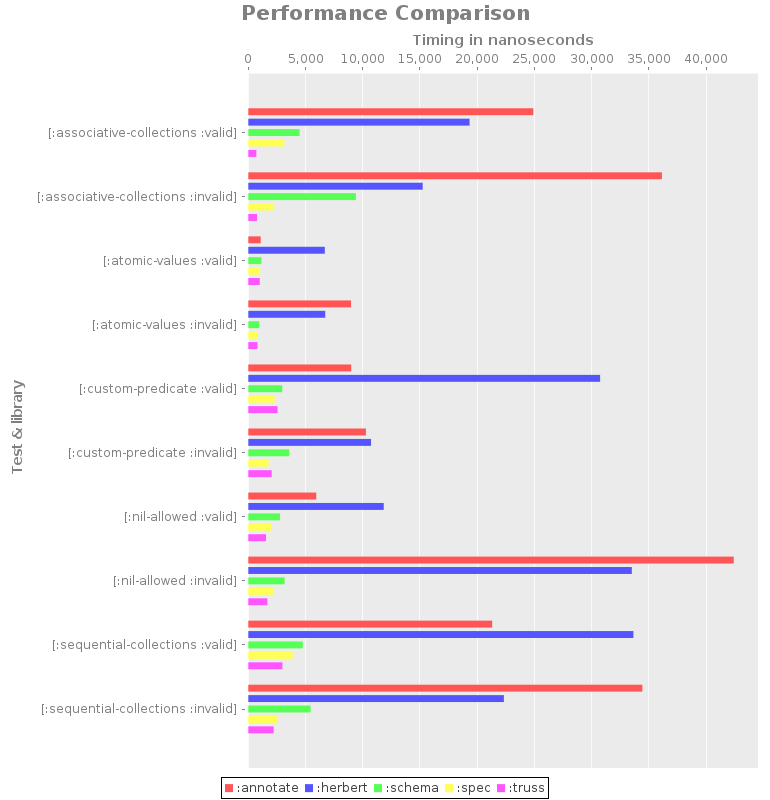
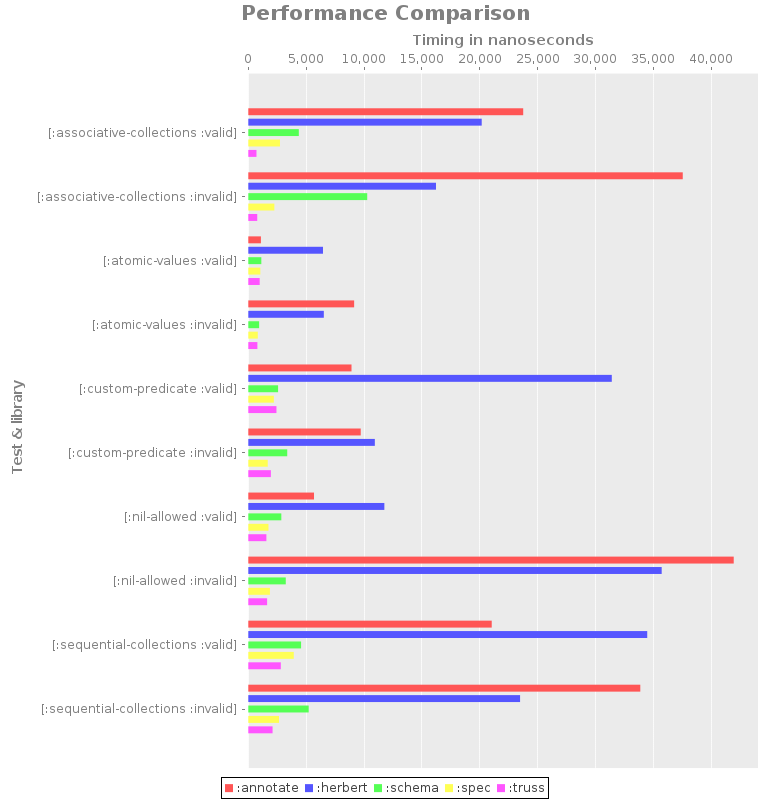
Deploy to GitHub Pages

diff --git a/index.html b/index.html
@@ -1,5 +1,5 @@
 <!DOCTYPE html>
-<html><head><link crossorigin="anonymous" href="https://maxcdn.bootstrapcdn.com/bootstrap/3.3.6/css/bootstrap.min.css" integrity="sha384-1q8mTJOASx8j1Au+a5WDVnPi2lkFfwwEAa8hDDdjZlpLegxhjVME1fgjWPGmkzs7" rel="stylesheet"><link crossorigin="anonymous" href="https://maxcdn.bootstrapcdn.com/bootstrap/3.3.6/css/bootstrap-theme.min.css" integrity="sha384-fLW2N01lMqjakBkx3l/M9EahuwpSfeNvV63J5ezn3uZzapT0u7EYsXMjQV+0En5r" rel="stylesheet"><script src="https://code.jquery.com/jquery-2.2.3.min.js"></script><script crossorigin="anonymous" integrity="sha384-0mSbJDEHialfmuBBQP6A4Qrprq5OVfW37PRR3j5ELqxss1yVqOtnepnHVP9aJ7xS" src="https://maxcdn.bootstrapcdn.com/bootstrap/3.3.6/js/bootstrap.min.js"></script></head><body data-spy="scroll" data-target="#navbar"><a href="https://github.com/muhuk/validation-benchmark"><img alt="Fork me on GitHub" data-canonical-src="https://s3.amazonaws.com/github/ribbons/forkme_right_gray_6d6d6d.png" src="https://camo.githubusercontent.com/a6677b08c955af8400f44c6298f40e7d19cc5b2d/68747470733a2f2f73332e616d617a6f6e6177732e636f6d2f6769746875622f726962626f6e732f666f726b6d655f72696768745f677261795f3664366436642e706e67" style="position: absolute; top: 0; right: 0; border: 0;"></a><div class="container"><div class="row" id="top"><div class="col-md-12"><div class="page-header"><h1>validation-benchmark <small>Updated at 2016-09-08</small></h1></div></div></div><div class="row"><div class="col-md-10"><div><h2 id="about">About</h2><p>Benchmark for Clojure validation libraries.</p><p><a href="https://github.com/muhuk/validation-benchmark">Source code</a></p><p>Following libraries are benchmarked:</p><ul><li><strong>annotate</strong> (<code>[com.roomkey/annotate "1.0.1"]</code>)</li><li><strong>herbert</strong> (<code>[com.velisco/herbert "0.7.0"]</code>)</li><li><strong>schema</strong> (<code>[prismatic/schema "1.1.3"]</code>)</li><li><strong>spec</strong> (<code>[org.clojure/clojure "1.9.0-alpha12"]</code>)</li><li><strong>truss</strong> (<code>[com.taoensso/truss "1.3.5"]</code>)</li></ul></div><div><h2 id="relative-performance-table">Relative performance table</h2><table class="table table-bordered table-hover"><tr><th>Test</th><th>annotate</th><th>herbert</th><th>schema</th><th>spec</th><th>truss</th></tr><tr><td><samp>[:associative-collections :invalid]</samp></td><td class="danger" title="Absolute timing is 36141 ns.">47.263</td><td class="danger" title="Absolute timing is 15240 ns.">19.930</td><td class="danger" title="Absolute timing is 9403 ns.">12.297</td><td class="warning" title="Absolute timing is 2260 ns.">2.955</td><td class="success" title="Absolute timing is 765 ns.">1.000</td></tr><tr><td><samp>[:associative-collections :valid]</samp></td><td class="danger" title="Absolute timing is 24901 ns.">35.339</td><td class="danger" title="Absolute timing is 19335 ns.">27.440</td><td class="danger" title="Absolute timing is 4482 ns.">6.361</td><td class="danger" title="Absolute timing is 3163 ns.">4.489</td><td class="success" title="Absolute timing is 705 ns.">1.000</td></tr><tr><td><samp>[:atomic-values :invalid]</samp></td><td class="danger" title="Absolute timing is 8978 ns.">11.196</td><td class="danger" title="Absolute timing is 6726 ns.">8.387</td><td class="warning" title="Absolute timing is 969 ns.">1.208</td><td class="success" title="Absolute timing is 815 ns.">1.017</td><td class="success" title="Absolute timing is 802 ns.">1.000</td></tr><tr><td><samp>[:atomic-values :valid]</samp></td><td class="warning" title="Absolute timing is 1085 ns.">1.081</td><td class="danger" title="Absolute timing is 6687 ns.">6.666</td><td class="warning" title="Absolute timing is 1151 ns.">1.147</td><td class="success" title="Absolute timing is 1038 ns.">1.035</td><td class="success" title="Absolute timing is 1003 ns.">1.000</td></tr><tr><td><samp>[:custom-predicate :invalid]</samp></td><td class="danger" title="Absolute timing is 10279 ns.">5.782</td><td class="danger" title="Absolute timing is 10727 ns.">6.034</td><td class="warning" title="Absolute timing is 3571 ns.">2.009</td><td class="success" title="Absolute timing is 1778 ns.">1.000</td><td class="warning" title="Absolute timing is 2044 ns.">1.150</td></tr><tr><td><samp>[:custom-predicate :valid]</samp></td><td class="danger" title="Absolute timing is 8995 ns.">3.897</td><td class="danger" title="Absolute timing is 30743 ns.">13.319</td><td class="warning" title="Absolute timing is 2967 ns.">1.285</td><td class="success" title="Absolute timing is 2308 ns.">1.000</td><td class="warning" title="Absolute timing is 2557 ns.">1.108</td></tr><tr><td><samp>[:nil-allowed :invalid]</samp></td><td class="danger" title="Absolute timing is 42417 ns.">25.418</td><td class="danger" title="Absolute timing is 33512 ns.">20.082</td><td class="warning" title="Absolute timing is 3175 ns.">1.902</td><td class="warning" title="Absolute timing is 2186 ns.">1.310</td><td class="success" title="Absolute timing is 1669 ns.">1.000</td></tr><tr><td><samp>[:nil-allowed :valid]</samp></td><td class="danger" title="Absolute timing is 5939 ns.">3.833</td><td class="danger" title="Absolute timing is 11834 ns.">7.638</td><td class="warning" title="Absolute timing is 2775 ns.">1.791</td><td class="warning" title="Absolute timing is 2060 ns.">1.329</td><td class="success" title="Absolute timing is 1549 ns.">1.000</td></tr><tr><td><samp>[:sequential-collections :invalid]</samp></td><td class="danger" title="Absolute timing is 34433 ns.">15.546</td><td class="danger" title="Absolute timing is 22332 ns.">10.083</td><td class="warning" title="Absolute timing is 5443 ns.">2.457</td><td class="warning" title="Absolute timing is 2513 ns.">1.134</td><td class="success" title="Absolute timing is 2215 ns.">1.000</td></tr><tr><td><samp>[:sequential-collections :valid]</samp></td><td class="danger" title="Absolute timing is 21308 ns.">7.147</td><td class="danger" title="Absolute timing is 33652 ns.">11.287</td><td class="warning" title="Absolute timing is 4758 ns.">1.596</td><td class="warning" title="Absolute timing is 3886 ns.">1.304</td><td class="success" title="Absolute timing is 2981 ns.">1.000</td></tr></table></div><div><h2 id="performance-graph">Performance Graph</h2><img src="chart.png"></div></div><div class="col-md-2" id="navbar"><ul class="nav nav-pills nav-stacked" data-spy="affix"><li><a href="#top"><span class="glyphicon glyphicon-triangle-top"></span> Top</a></li><li><a href="#about"><span class="glyphicon glyphicon-triangle-right"></span> About</a></li><li><a href="#relative-performance-table"><span class="glyphicon glyphicon-triangle-right"></span> Relative performance table</a></li><li><a href="#performance-graph"><span class="glyphicon glyphicon-triangle-right"></span> Performance Graph</a></li></ul></div></div><div class="row"><div class="col-md-10" style="margin-bottom: 6em;">&nbsp;</div></div><script>
+<html><head><link crossorigin="anonymous" href="https://maxcdn.bootstrapcdn.com/bootstrap/3.3.6/css/bootstrap.min.css" integrity="sha384-1q8mTJOASx8j1Au+a5WDVnPi2lkFfwwEAa8hDDdjZlpLegxhjVME1fgjWPGmkzs7" rel="stylesheet"><link crossorigin="anonymous" href="https://maxcdn.bootstrapcdn.com/bootstrap/3.3.6/css/bootstrap-theme.min.css" integrity="sha384-fLW2N01lMqjakBkx3l/M9EahuwpSfeNvV63J5ezn3uZzapT0u7EYsXMjQV+0En5r" rel="stylesheet"><script src="https://code.jquery.com/jquery-2.2.3.min.js"></script><script crossorigin="anonymous" integrity="sha384-0mSbJDEHialfmuBBQP6A4Qrprq5OVfW37PRR3j5ELqxss1yVqOtnepnHVP9aJ7xS" src="https://maxcdn.bootstrapcdn.com/bootstrap/3.3.6/js/bootstrap.min.js"></script></head><body data-spy="scroll" data-target="#navbar"><a href="https://github.com/muhuk/validation-benchmark"><img alt="Fork me on GitHub" data-canonical-src="https://s3.amazonaws.com/github/ribbons/forkme_right_gray_6d6d6d.png" src="https://camo.githubusercontent.com/a6677b08c955af8400f44c6298f40e7d19cc5b2d/68747470733a2f2f73332e616d617a6f6e6177732e636f6d2f6769746875622f726962626f6e732f666f726b6d655f72696768745f677261795f3664366436642e706e67" style="position: absolute; top: 0; right: 0; border: 0;"></a><div class="container"><div class="row" id="top"><div class="col-md-12"><div class="page-header"><h1>validation-benchmark <small>Updated at 2016-10-04</small></h1></div></div></div><div class="row"><div class="col-md-10"><div><h2 id="about">About</h2><p>Benchmark for Clojure validation libraries.</p><p><a href="https://github.com/muhuk/validation-benchmark">Source code</a></p><p>Following libraries are benchmarked:</p><ul><li><strong>annotate</strong> (<code>[com.roomkey/annotate "1.0.1"]</code>)</li><li><strong>herbert</strong> (<code>[com.velisco/herbert "0.7.0"]</code>)</li><li><strong>schema</strong> (<code>[prismatic/schema "1.1.3"]</code>)</li><li><strong>spec</strong> (<code>[org.clojure/clojure "1.9.0-alpha13"]</code>)</li><li><strong>truss</strong> (<code>[com.taoensso/truss "1.3.5"]</code>)</li></ul></div><div><h2 id="relative-performance-table">Relative performance table</h2><table class="table table-bordered table-hover"><tr><th>Test</th><th>annotate</th><th>herbert</th><th>schema</th><th>spec</th><th>truss</th></tr><tr><td><samp>[:associative-collections :invalid]</samp></td><td class="danger" title="Absolute timing is 37546 ns.">48.546</td><td class="danger" title="Absolute timing is 16221 ns.">20.973</td><td class="danger" title="Absolute timing is 10277 ns.">13.288</td><td class="warning" title="Absolute timing is 2254 ns.">2.914</td><td class="success" title="Absolute timing is 773 ns.">1.000</td></tr><tr><td><samp>[:associative-collections :valid]</samp></td><td class="danger" title="Absolute timing is 23758 ns.">33.651</td><td class="danger" title="Absolute timing is 20171 ns.">28.570</td><td class="danger" title="Absolute timing is 4365 ns.">6.183</td><td class="danger" title="Absolute timing is 2739 ns.">3.879</td><td class="success" title="Absolute timing is 706 ns.">1.000</td></tr><tr><td><samp>[:atomic-values :invalid]</samp></td><td class="danger" title="Absolute timing is 9148 ns.">11.635</td><td class="danger" title="Absolute timing is 6526 ns.">8.300</td><td class="warning" title="Absolute timing is 935 ns.">1.190</td><td class="success" title="Absolute timing is 821 ns.">1.044</td><td class="success" title="Absolute timing is 786 ns.">1.000</td></tr><tr><td><samp>[:atomic-values :valid]</samp></td><td class="warning" title="Absolute timing is 1091 ns.">1.108</td><td class="danger" title="Absolute timing is 6454 ns.">6.555</td><td class="warning" title="Absolute timing is 1127 ns.">1.144</td><td class="warning" title="Absolute timing is 1039 ns.">1.055</td><td class="success" title="Absolute timing is 985 ns.">1.000</td></tr><tr><td><samp>[:custom-predicate :invalid]</samp></td><td class="danger" title="Absolute timing is 9717 ns.">5.783</td><td class="danger" title="Absolute timing is 10936 ns.">6.508</td><td class="warning" title="Absolute timing is 3365 ns.">2.003</td><td class="success" title="Absolute timing is 1680 ns.">1.000</td><td class="warning" title="Absolute timing is 1952 ns.">1.162</td></tr><tr><td><samp>[:custom-predicate :valid]</samp></td><td class="danger" title="Absolute timing is 8919 ns.">4.042</td><td class="danger" title="Absolute timing is 31413 ns.">14.235</td><td class="warning" title="Absolute timing is 2573 ns.">1.166</td><td class="success" title="Absolute timing is 2207 ns.">1.000</td><td class="warning" title="Absolute timing is 2433 ns.">1.103</td></tr><tr><td><samp>[:nil-allowed :invalid]</samp></td><td class="danger" title="Absolute timing is 41951 ns.">25.793</td><td class="danger" title="Absolute timing is 35725 ns.">21.965</td><td class="warning" title="Absolute timing is 3238 ns.">1.991</td><td class="warning" title="Absolute timing is 1870 ns.">1.150</td><td class="success" title="Absolute timing is 1626 ns.">1.000</td></tr><tr><td><samp>[:nil-allowed :valid]</samp></td><td class="danger" title="Absolute timing is 5679 ns.">3.632</td><td class="danger" title="Absolute timing is 11758 ns.">7.521</td><td class="warning" title="Absolute timing is 2854 ns.">1.825</td><td class="warning" title="Absolute timing is 1743 ns.">1.115</td><td class="success" title="Absolute timing is 1563 ns.">1.000</td></tr><tr><td><samp>[:sequential-collections :invalid]</samp></td><td class="danger" title="Absolute timing is 33877 ns.">16.154</td><td class="danger" title="Absolute timing is 23488 ns.">11.200</td><td class="warning" title="Absolute timing is 5218 ns.">2.488</td><td class="warning" title="Absolute timing is 2653 ns.">1.265</td><td class="success" title="Absolute timing is 2097 ns.">1.000</td></tr><tr><td><samp>[:sequential-collections :valid]</samp></td><td class="danger" title="Absolute timing is 21037 ns.">7.483</td><td class="danger" title="Absolute timing is 34476 ns.">12.263</td><td class="warning" title="Absolute timing is 4562 ns.">1.623</td><td class="warning" title="Absolute timing is 3929 ns.">1.397</td><td class="success" title="Absolute timing is 2811 ns.">1.000</td></tr></table></div><div><h2 id="performance-graph">Performance Graph</h2><img src="chart.png"></div></div><div class="col-md-2" id="navbar"><ul class="nav nav-pills nav-stacked" data-spy="affix"><li><a href="#top"><span class="glyphicon glyphicon-triangle-top"></span> Top</a></li><li><a href="#about"><span class="glyphicon glyphicon-triangle-right"></span> About</a></li><li><a href="#relative-performance-table"><span class="glyphicon glyphicon-triangle-right"></span> Relative performance table</a></li><li><a href="#performance-graph"><span class="glyphicon glyphicon-triangle-right"></span> Performance Graph</a></li></ul></div></div><div class="row"><div class="col-md-10" style="margin-bottom: 6em;">&nbsp;</div></div><script>
   (function(i,s,o,g,r,a,m){i['GoogleAnalyticsObject']=r;i[r]=i[r]||function(){
   (i[r].q=i[r].q||[]).push(arguments)},i[r].l=1*new Date();a=s.createElement(o),
   m=s.getElementsByTagName(o)[0];a.async=1;a.src=g;m.parentNode.insertBefore(a,m)
